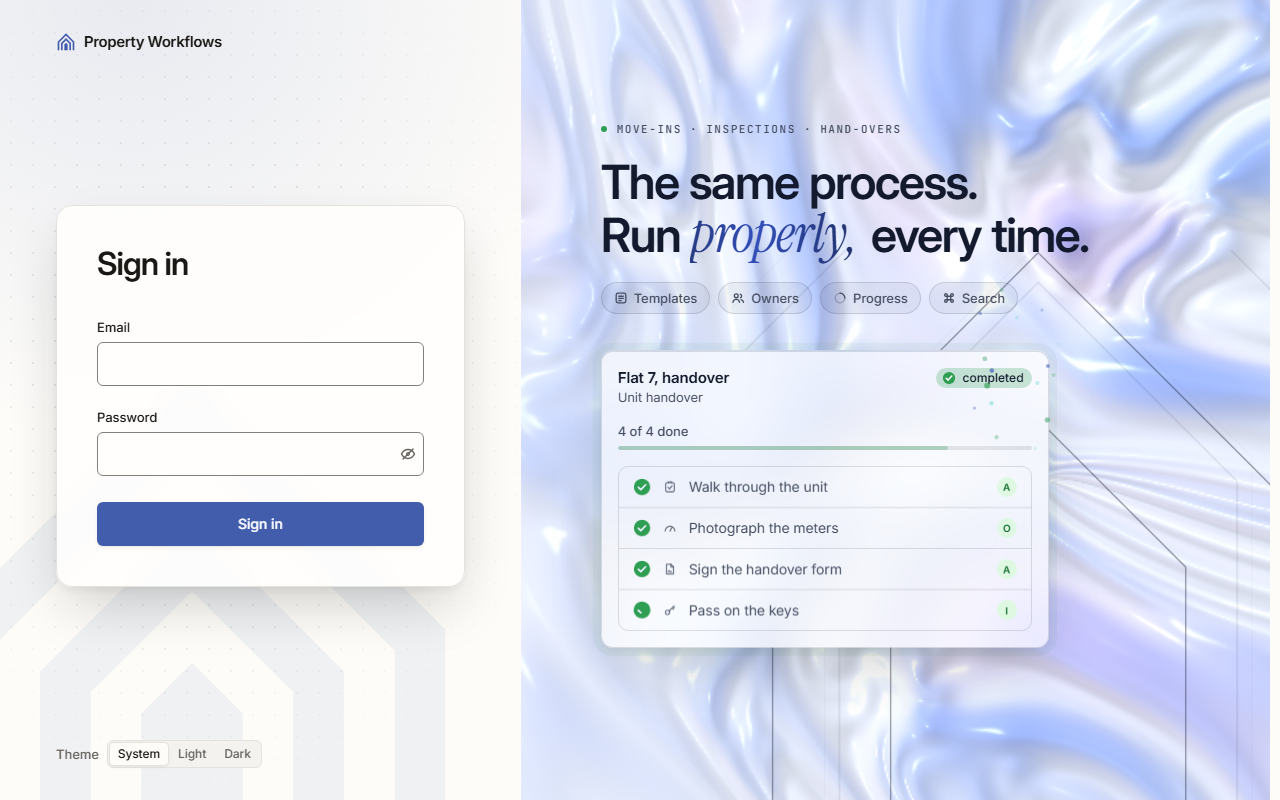
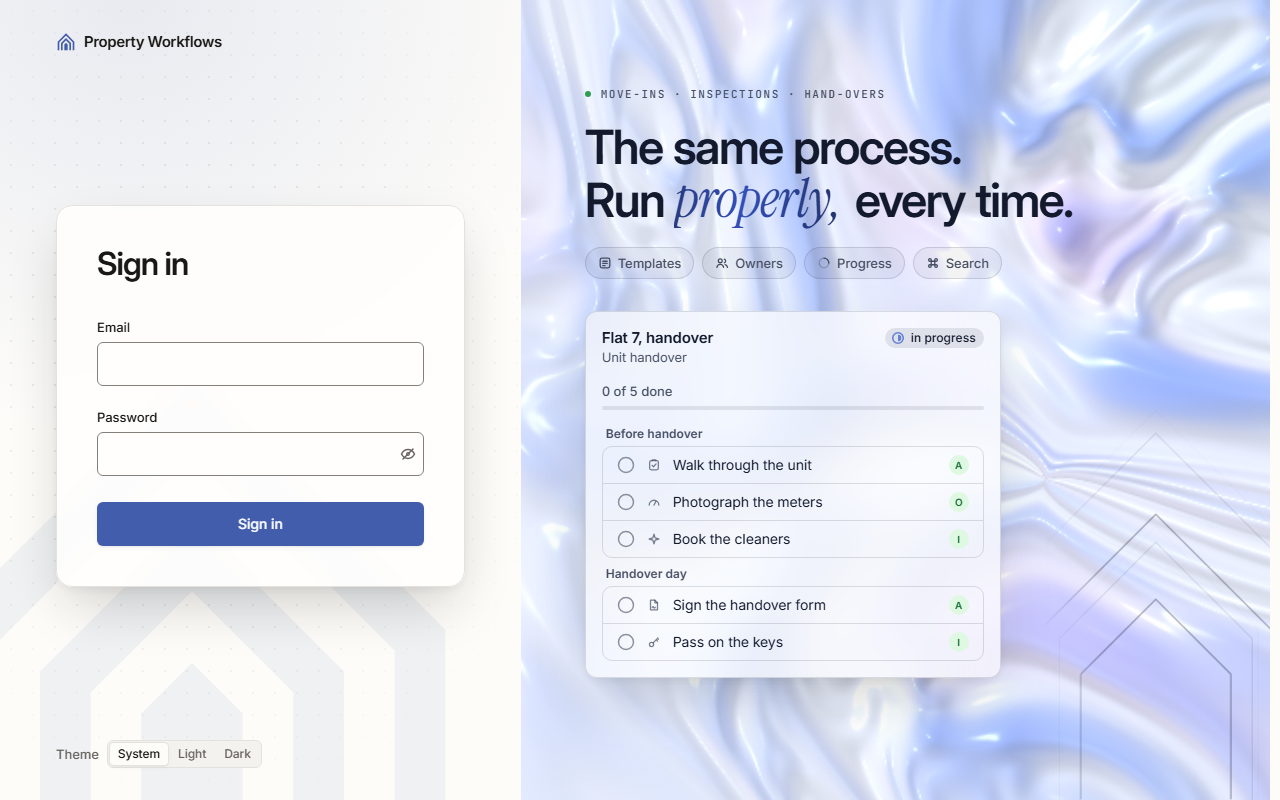
WS8 C: повторний UAT на проді з чистого main (#74)
* WS8 C: повторний UAT на проді з чистого main

Звіт, кадр AC-EDITOR-09 і manifest.json з прогону на ac4da80; proof pack посилається на них відносно.

* Proof pack: відео й негативний контроль — в описі #74

---------

diff --git a/docs/qa/uat/2026-11-02/report.md b/docs/qa/uat/2026-11-02/report.md
@@ -1,17 +1,17 @@
 # Звіт UAT — 02.11.2026
 
-- **Застосунок:** https://property-workflows-rho.vercel.app (/api/health: коміт `3191d27`)
-- **Код тестів:** `task/uat` @ `1d3d724` + незакомічені зміни
-- **Прогін:** 02.11.2026, 11:07 (Київ), Playwright 27.3 с; AC: 3 — PASS 3, FAIL 0, NEEDS-HUMAN 0
-- **Рецензент:** `claude-haiku-5-5`; суперечки → `claude-sonnet-5-5`. Разом за розбір: $0.0061 (ціни API; за підпискою — у межах ліміту плану)
+- **Застосунок:** https://property-workflows-rho.vercel.app (/api/health: коміт `ac4da80`)
+- **Код тестів:** `main` @ `ac4da80`
+- **Прогін:** 02.11.2026, 13:52 (Київ), Playwright 33.3 с; AC: 3 — PASS 3, FAIL 0, NEEDS-HUMAN 0
+- **Рецензент:** `claude-haiku-5-5`; суперечки → `claude-sonnet-5-5`. Разом за розбір: $0.0060 (ціни API; за підпискою — у межах ліміту плану)
 - **Прибирання:** синтетичних uat-*@example.test видалено 0, лишилось 0, їхніх рядків, що лишились: 0
 - **Відео й траси:** не в git — `test-results/` локально або артефакт CI; трасу відкриває `npx playwright show-trace <trace.zip>`
 
 | AC | Перевірки | Агент | Підсумок | Чому | Playwright | Розбір |
 |---|---|---|---|---|---|---|
-| AC-DSYS-04 | пройшли | Haiku: PASS | **PASS** | R6: перевірки, агент і цитати збігаються | 3.3 с | $0.0021, 7.8 с |
-| AC-EDITOR-07 | пройшли | Haiku: PASS | **PASS** | R6: перевірки, агент і цитати збігаються | 3.4 с | $0.0018, 5.2 с |
-| AC-EDITOR-09 | пройшли | Haiku: PASS | **PASS** | R6: перевірки, агент і цитати збігаються | 10.6 с | $0.0023, 9.3 с |
+| AC-DSYS-04 | пройшли | Haiku: PASS | **PASS** | R6: перевірки, агент і цитати збігаються | 3.9 с | $0.0020, 8.5 с |
+| AC-EDITOR-07 | пройшли | Haiku: PASS | **PASS** | R6: перевірки, агент і цитати збігаються | 3.3 с | $0.0019, 7.7 с |
+| AC-EDITOR-09 | пройшли | Haiku: PASS | **PASS** | R6: перевірки, агент і цитати збігаються | 10.9 с | $0.0022, 10.5 с |
 
 ## AC-DSYS-04 — PASS
 
@@ -25,7 +25,7 @@
 
 **Кроки:** ✔ Дано: менеджер B, у якого немає запусків → ✔ Коли: B відкриває список запусків → ✔ Тоді: B sees the message "No runs yet. Launch a template to start one." and the link "Launch a template", and no empty table.
 
-**Агент (claude-haiku-5-5, PASS):** На кадрі /runs видно точний текст повідомлення «No runs yet. Launch a template to start one.» і напис «Launch a template» на синій кнопці під ним; таблиці в кадрі немає, а сама сторінка показує порожній стан. Кадр не показує, чи це саме посилання (&lt;a&gt;) чи кнопка, що веде на /templates, — це перевіряється не з кадрів, тому тут не оцінюється.
+**Агент (claude-haiku-5-5, PASS):** На кадрі frame-then-1.png (сторінка Runs) видно повідомлення «No runs yet. Launch a template to start one.» і під ним синю кнопку з написом «Launch a template»; текст збігається з критерієм посимвольно. Кадр не показує, чи це саме посилання (&lt;a&gt;), чи кнопка, що веде на /templates; цей аспект не перевіряється з кадру, тож оцінено лише текст.
 
 **Цитати агента, звірені зі сторінкою (aria):**
 - «No runs yet. Launch a template to start one.» — є на сторінці
@@ -49,7 +49,7 @@
 
 **Кроки:** ✔ Дано: менеджер B увійшов, шаблон «Tenant move-in» має збережені версії → ✔ Коли: B відкриває список версій цього шаблону за прямим посиланням → ✔ Тоді: B sees the message "Not enough rights" and no versions.
 
-**Агент (claude-haiku-5-5, PASS):** На кадрі сторінки «Versions» видно червоний напис «Not enough rights» з іконкою попередження; текст збігається з критерієм посимвольно. Рядків версій, таблиці чи списку на кадрі немає, але ця частина «Тоді» за правилами не оцінюється з кадрів. Сесія показана як manager.b@example.test.&lt;/notes&gt;
+**Агент (claude-haiku-5-5, PASS):** На кадрі frame-then-1.png сторінки «Versions» видно червоний напис «Not enough rights» з іконкою попередження, текст збігається з критерієм посимвольно. Під ним є кнопка «Back to templates», а список версій на кадрі відсутній; цю частину «Тоді» перевіряють автоматичні тести, я її не оцінював. Сесія показує manager.b@example.test.&lt;/notes&gt;
 
 
 **Цитати агента, звірені зі сторінкою (aria):**
@@ -73,7 +73,7 @@
 
 **Кроки:** ✔ Дано: відвідувач не увійшов → ✔ Коли: відвідувач відкриває редактор шаблону «Tenant move-in» за прямим посиланням → ✔ Тоді: the visitor sees the sign-in page and no content of the template.
 
-**Агент (claude-haiku-5-5, PASS):** На кадрі видно сторінку входу Property Workflows: заголовок «Sign in», поля «Email» і «Password» та кнопку «Sign in». Праворуч є декоративна картка «Flat 7, handover» із чеклістом; це не шаблон «Tenant move-in», але за розділом «Не з кадрів» відсутність вмісту шаблону не оцінюю.
+**Агент (claude-haiku-5-5, PASS):** На кадрі frame-then-1.png видно сторінку входу з заголовком «Sign in», полями «Email» і «Password» та кнопкою «Sign in»; назви шаблону «Tenant move-in» на кадрі немає. У правій частині екрана є декоративна картка «Flat 7, handover» із секціями «Before handover» і «Handover day» та задачами; це не назва шаблону з критерію, тож оцінку «немає вмісту шаблону» не змінює, але варто переконатися, що це статична ілюстрація сторінки входу, а не дані шаблону.
 
 **Цитати агента, звірені зі сторінкою (aria):**
 - «Sign in» — є на сторінці

diff --git a/docs/qa/proof-pack.md b/docs/qa/proof-pack.md
@@ -10,7 +10,7 @@
 
 - Прод-URL: https://property-workflows-rho.vercel.app
 - Вимоги: https://github.com/solomchaak/property-workflows-spec · джерело: issues · знімок 2026-10-30
-- `/api/health` на момент UAT: sha `3191d27`, db ok, 02.11.2026
+- `/api/health` на момент UAT: sha `ac4da80`, db ok, 02.11.2026
 
 ## 3 AC
 
@@ -86,14 +86,14 @@
 
 | AC | Специфікація | Тест (твердження) | Агент | Вердикт | Кадр |
 |---|---|---|---|---|---|
-| AC-EDITOR-07 | https://github.com/OleksandrMartynov/property-workflows/blob/f252c54aed0f42e5e6b0c24a3d6f4c690d9b5eab/tests/e2e/template-versions-forbidden.spec.ts | passed | Haiku: PASS | PASS — R6: перевірки, агент і цитати збігаються | https://github.com/OleksandrMartynov/property-workflows/blob/f252c54aed0f42e5e6b0c24a3d6f4c690d9b5eab/docs/qa/uat/2026-11-02/frames/AC-EDITOR-07-then-1.png |
-| AC-EDITOR-09 | https://github.com/OleksandrMartynov/property-workflows/blob/f252c54aed0f42e5e6b0c24a3d6f4c690d9b5eab/tests/e2e/editor-visitor.spec.ts | passed | Haiku: PASS | PASS — R6: перевірки, агент і цитати збігаються | https://github.com/OleksandrMartynov/property-workflows/blob/f252c54aed0f42e5e6b0c24a3d6f4c690d9b5eab/docs/qa/uat/2026-11-02/frames/AC-EDITOR-09-then-1.png |
-| AC-DSYS-04 | https://github.com/OleksandrMartynov/property-workflows/blob/f252c54aed0f42e5e6b0c24a3d6f4c690d9b5eab/tests/e2e/runs-empty.spec.ts | passed | Haiku: PASS | PASS — R6: перевірки, агент і цитати збігаються | https://github.com/OleksandrMartynov/property-workflows/blob/f252c54aed0f42e5e6b0c24a3d6f4c690d9b5eab/docs/qa/uat/2026-11-02/frames/AC-DSYS-04-then-1.png |
+| AC-EDITOR-07 | https://github.com/OleksandrMartynov/property-workflows/blob/f252c54aed0f42e5e6b0c24a3d6f4c690d9b5eab/tests/e2e/template-versions-forbidden.spec.ts | passed | Haiku: PASS | PASS — R6: перевірки, агент і цитати збігаються | [frames/AC-EDITOR-07-then-1.png](uat/2026-11-02/frames/AC-EDITOR-07-then-1.png) |
+| AC-EDITOR-09 | https://github.com/OleksandrMartynov/property-workflows/blob/f252c54aed0f42e5e6b0c24a3d6f4c690d9b5eab/tests/e2e/editor-visitor.spec.ts | passed | Haiku: PASS | PASS — R6: перевірки, агент і цитати збігаються | [frames/AC-EDITOR-09-then-1.png](uat/2026-11-02/frames/AC-EDITOR-09-then-1.png) |
+| AC-DSYS-04 | https://github.com/OleksandrMartynov/property-workflows/blob/f252c54aed0f42e5e6b0c24a3d6f4c690d9b5eab/tests/e2e/runs-empty.spec.ts | passed | Haiku: PASS | PASS — R6: перевірки, агент і цитати збігаються | [frames/AC-DSYS-04-then-1.png](uat/2026-11-02/frames/AC-DSYS-04-then-1.png) |
 
-- Звіт: https://github.com/OleksandrMartynov/property-workflows/blob/f252c54aed0f42e5e6b0c24a3d6f4c690d9b5eab/docs/qa/uat/2026-11-02/report.md (кадри — `frames/`, `manifest.json`)
-- Відео: вкладення в описі PR https://github.com/OleksandrMartynov/property-workflows/pull/63
-- Рецензент: `claude-haiku-5-5`, суперечки — `claude-sonnet-5-5`; розбір 3 AC — $0.0061 (ціни API, за підпискою — у межах плану)
-- Негативний контроль (`npm run uat:nc`, рядки звіту — в описі https://github.com/OleksandrMartynov/property-workflows/pull/63): NC-1 (AC-DSYS-04, у тесті очікується інший текст порожнього стану) → **FAIL** (R1: перевірка впала); NC-2 (AC-DSYS-04, «Тоді» у вимозі змінено, тест і застосунок — ні) → тест зелений, але Haiku і Sonnet — FAIL → **NEEDS-HUMAN** (R3). Жодного PASS: UAT уміє падати, і агент ловить розбіжність, яку пропустив тест
+- Звіт: [report.md](uat/2026-11-02/report.md) (кадри — `frames/`, `manifest.json`)
+- Відео: вкладення в описі PR https://github.com/OleksandrMartynov/property-workflows/pull/74
+- Рецензент: `claude-haiku-5-5`, суперечки — `claude-sonnet-5-5`; розбір 3 AC — $0.0060 (ціни API, за підпискою — у межах плану)
+- Негативний контроль (`npm run uat:nc`, рядки звіту — в описі https://github.com/OleksandrMartynov/property-workflows/pull/74): NC-1 (AC-DSYS-04, у тесті очікується інший текст порожнього стану) → **FAIL** (R1: перевірка впала); NC-2 (AC-DSYS-04, «Тоді» у вимозі змінено, тест і застосунок — ні) → тест зелений, але Haiku і Sonnet — FAIL → **NEEDS-HUMAN** (R3). Жодного PASS: UAT уміє падати, і агент ловить розбіжність, яку пропустив тест
 - Дані: лише читання (жодного `@writes`); прибирання — «синтетичних uat-*@example.test видалено 0, лишилось 0»
 
 ### Приймання PM
